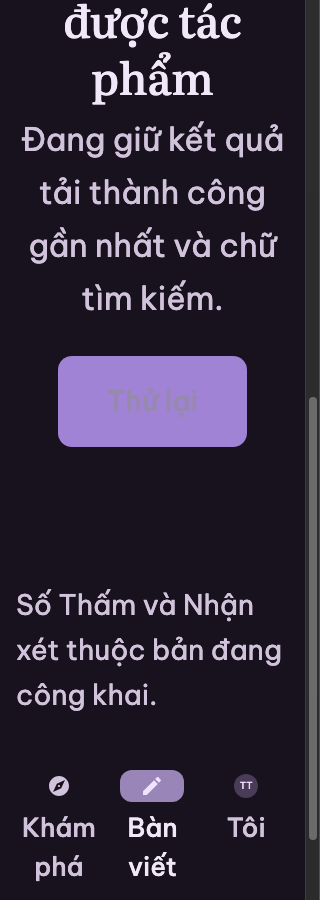
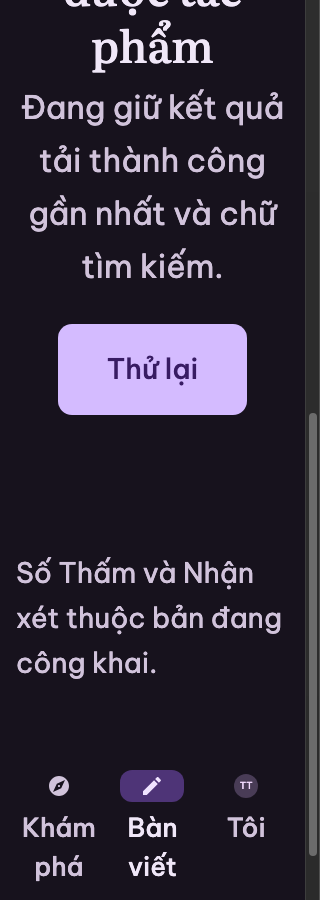
test(desk): đo tương phản nút Thử lại sau khi đổi theme
Ảnh lỗi trước đây bắt màu giữa hiệu ứng chuyển theme. Chờ màu ổn định, kiểm nút đang bật và đo chữ trên nền nút trước khi chụp lại hai trạng thái.

Refs: #411

diff --git a/docs/development/evidence/desk-states-411/README.md b/docs/development/evidence/desk-states-411/README.md
@@ -35,3 +35,9 @@ Ca Chrome `desk-guest-open` dùng App SSR trên `03730853`, bundle hydrate của
 `b4fe62fa`, CSS tại `3356c271`, Identity native và PostgreSQL thử nghiệm. PASS cả
 24 tổ hợp kích thước, theme và cỡ chữ. Trang khách gửi 0 request danh sách riêng,
 có một nút chính “Đăng nhập” tới `/toi?next=/ban-viet` và liên kết “Khám phá tác phẩm”.
+
+Trên bản ghép `79e0d632` (đã có #429), SSR, WASM và CSS được dựng lại.
+Chrome qua `desk-guest-open`, `desk-guest`, `desk-empty` và `author-works`.
+Hai ảnh lỗi trong bảng dùng bản ghép này. Ca chụp đợi hiệu ứng đổi theme kết thúc
+và đo tương phản chữ “Thử lại” trên nút đang bật, đạt 8,16:1 ở 320 px tối/200%
+và 6,98:1 ở 1440 px sáng/100%.
